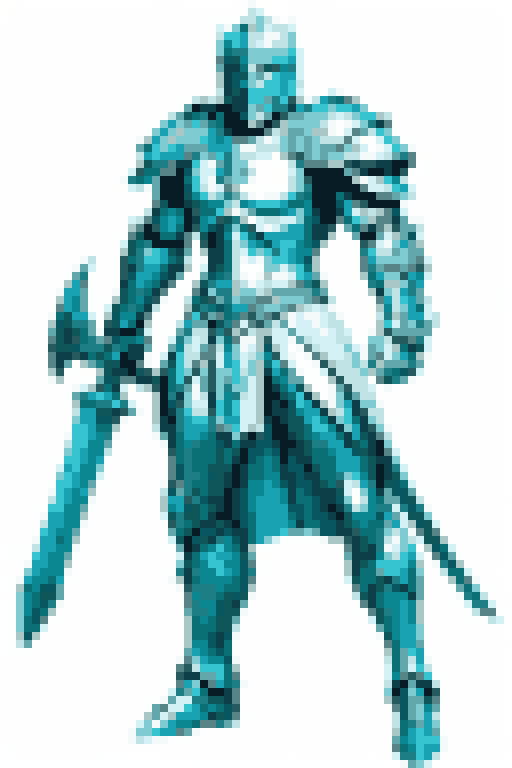
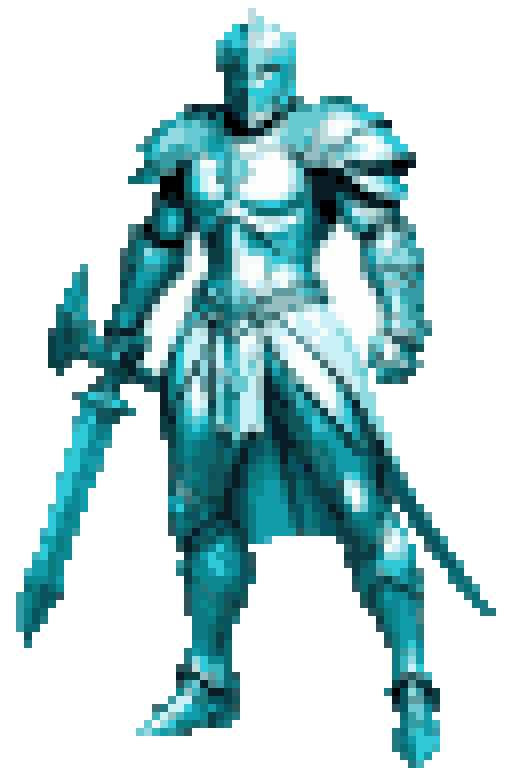
pixelate: alpha-aware downscale (no white-bg halo) + crisp edge
step_pixelate smooth mode was BOX-averaging under-transparent pixels and keeping
soft alpha, so a cut-out subject bled its background into every edge pixel (fuzzy
halo). Now premultiplies by alpha before area-averaging, un-premultiplies so edge
pixels are the pure subject color, and hard-thresholds alpha for a crisp pixel
edge. Demo frost-knight pixel regenerated with the fix.

diff --git a/conductor/postprocess.py b/conductor/postprocess.py
@@ -536,17 +536,39 @@ def step_pixelate(in_path, params, out_path):
     smooth = bool(p.get("smooth", True))
     im = Image.open(in_path).convert("RGBA")
     w, h = im.size
+    sw, sh = max(1, w // px), max(1, h // px)
     if smooth:
         # Median-filter the RGB (kills single-pixel speckle) then area-average
         # downscale so each output pixel is a true block average, not one sample.
         rgb = im.convert("RGB").filter(ImageFilter.MedianFilter(3))
         alpha = im.split()[3]
-        small_rgb = rgb.resize((max(1, w // px), max(1, h // px)), Image.BOX)
-        small_a = alpha.resize((max(1, w // px), max(1, h // px)), Image.BOX)
-        small = small_rgb.convert("RGBA")
-        small.putalpha(small_a)
+        # ALPHA-AWARE downscale: premultiply RGB by alpha so transparent pixels
+        # contribute ZERO (not their stale under-color) to the block average.
+        # Without this, a cut-out subject bleeds its transparent background color
+        # into every edge pixel -> a fuzzy halo. Compositing over black premultiplies.
+        black = Image.new("RGB", im.size, (0, 0, 0))
+        premult = Image.composite(rgb, black, alpha)
+        pm_s = premult.resize((sw, sh), Image.BOX)
+        a_s = alpha.resize((sw, sh), Image.BOX)
+        np = _np()
+        if np is not None:
+            a = np.asarray(a_s).astype("float32") / 255.0
+            pm = np.asarray(pm_s).astype("float32")
+            # un-premultiply so edge pixels are the PURE subject color, then snap
+            # alpha hard (0/255) for a crisp pixel edge instead of a soft ramp.
+            safe = np.clip(a[..., None], 1e-3, 1.0)
+            rgb_s = np.clip(pm / safe, 0, 255).astype("uint8")
+            a_hard = (a >= 0.5).astype("uint8") * 255
+            small = Image.fromarray(rgb_s, "RGB").convert("RGBA")
+            small.putalpha(Image.fromarray(a_hard, "L"))
+        else:
+            # No numpy: still better than blending bg -- hard-threshold alpha so
+            # edges are crisp; RGB keeps the premultiplied average (edges darken
+            # slightly but no bright-bg halo).
+            small = pm_s.convert("RGBA")
+            small.putalpha(a_s.point(lambda v: 255 if v >= 128 else 0))
     else:
-        small = im.resize((max(1, w // px), max(1, h // px)), Image.NEAREST)
+        small = im.resize((sw, sh), Image.NEAREST)
     if colors > 0:
         alpha = small.split()[3]
         snapped = small.convert("RGB").quantize(colors=colors, dither=Image.Dither.NONE).convert("RGBA")